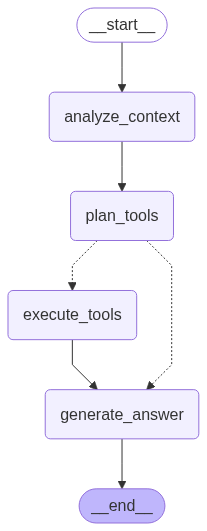
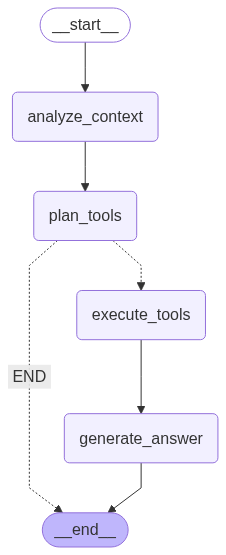
优化普通助手，如果没有工具调用就直接end，否则会在plan_tool和generate_answer都生成消息

diff --git a/backend/src/agents/diagnostic_agent/general_qa_subgraph.py b/backend/src/agents/diagnostic_agent/general_qa_subgraph.py
@@ -314,23 +314,26 @@ def determine_qa_type(user_question: str, qa_context: str, config: RunnableConfi
         return "technical_qa"  # 默认为技术问答
 
 
-def check_qa_tool_calls(state: DiagnosticState, config: RunnableConfig) -> Literal["execute_tools", "generate_answer"]:
-    """检查是否有工具调用需要执行"""
+def check_qa_tool_calls(state: DiagnosticState, config: RunnableConfig) -> Literal["execute_tools", "END"]:
+    """检查是否有工具调用需要执行，如果没有工具调用且已有回复则直接结束"""
     print(f"✅ 执行路由函数: check_qa_tool_calls")
     
     messages = state.get("messages", [])
     print(f"🔍 路由检查 - 消息总数: {len(messages)}")
     
     if not messages:
-        print(f"❌ 没有消息，直接生成回答")
-        return "generate_answer"
+        print(f"❌ 没有消息，直接结束")
+        return "END"
     
     last_message = messages[-1]
     print(f"🔍 最后一条消息类型: {type(last_message)}")
     print(f"🔍 消息内容: {getattr(last_message, 'content', 'N/A')[:100]}...")
     
     has_tool_calls = hasattr(last_message, 'tool_calls') and last_message.tool_calls
+    has_content = hasattr(last_message, 'content') and last_message.content.strip()
+    
     print(f"🔍 hasattr(tool_calls): {hasattr(last_message, 'tool_calls')}")
+    print(f"🔍 has_content: {has_content}")
     if hasattr(last_message, 'tool_calls'):
         print(f"🔍 tool_calls值: {last_message.tool_calls}")
     
@@ -338,10 +341,14 @@ def check_qa_tool_calls(state: DiagnosticState, config: RunnableConfig) -> Liter
         print(f"✅ 检测到工具调用，数量: {len(last_message.tool_calls)}")
         logger.info(f"检测到工具调用，数量: {len(last_message.tool_calls)}")
         return "execute_tools"
+    elif has_content:
+        print(f"✅ 无工具调用但有回复内容，直接结束")
+        logger.info("无工具调用但有回复内容，直接结束")
+        return "END"
     else:
-        print(f"❌ 无工具调用，直接生成回答")
-        logger.info("无工具调用，直接生成回答")
-        return "generate_answer"
+        print(f"❌ 无工具调用也无回复内容，直接结束")
+        logger.info("无工具调用也无回复内容，直接结束")
+        return "END"
 
 
 def generate_technical_qa_prompt(user_question: str, qa_context: str) -> str:
@@ -483,7 +490,7 @@ def create_general_qa_subgraph():
     # 设置流程
     builder.add_edge(START, "analyze_context")
     builder.add_edge("analyze_context", "plan_tools")
-    builder.add_conditional_edges("plan_tools", check_qa_tool_calls, {"execute_tools": "execute_tools", "generate_answer": "generate_answer"})
+    builder.add_conditional_edges("plan_tools", check_qa_tool_calls, {"execute_tools": "execute_tools", "END": END})
     builder.add_edge("execute_tools", "generate_answer")
     builder.add_edge("generate_answer", END)
     return builder.compile()
